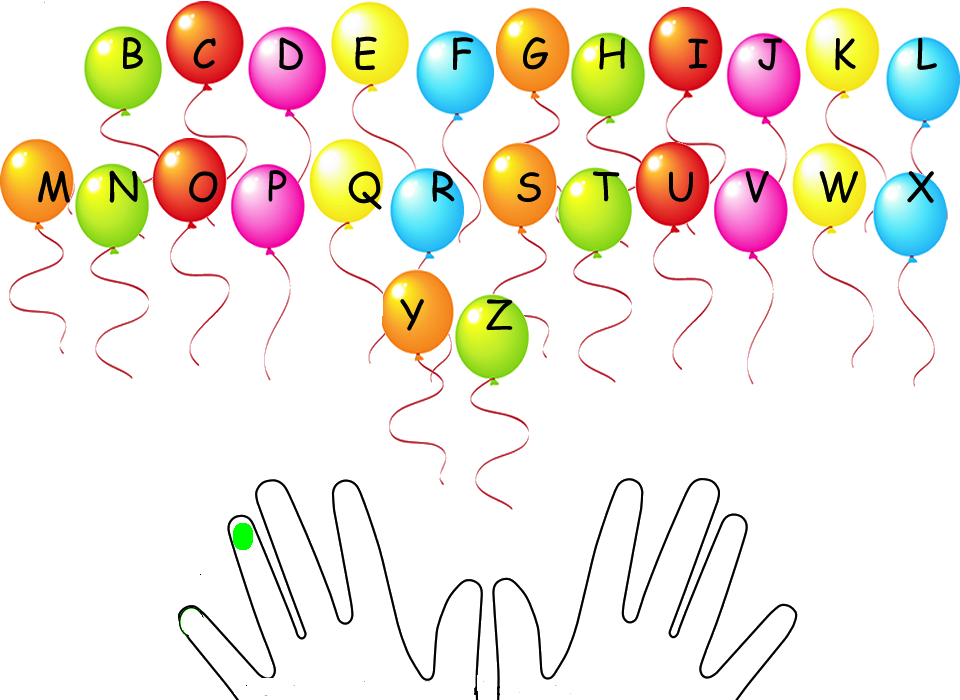
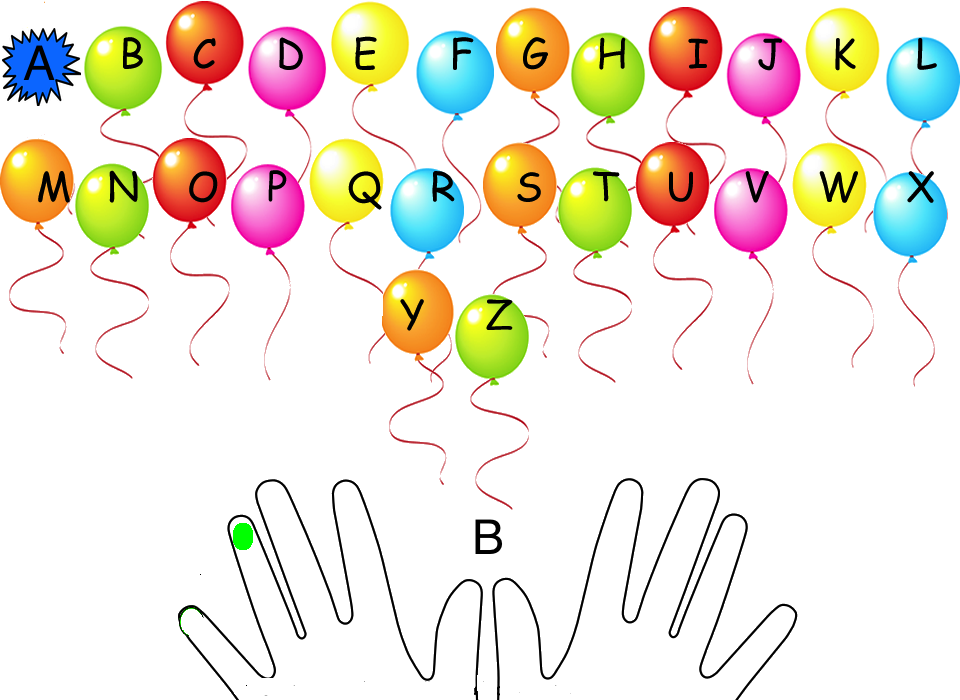
frame animations

Changed region(s): [[0.0, 0.03, 0.0938, 0.15], [0.4688, 0.72, 0.5312, 0.81]]

diff --git a/public/index.html b/public/index.html
@@ -21,7 +21,7 @@
                 <div class="inner cover">
                     <h1 class="cover-heading">Pop</h1>
                     <p class="lead">A site to Learn the Alphabet</p>
-                    <a href="https://glacial-reaches-9119.herokuapp.com/BATTester.jar" download>Download link</a>
+                    <a href="https://glacial-reaches-9119.herokuapp.com/Pop.jar" download>Download link</a>
 
 
                 </div>
